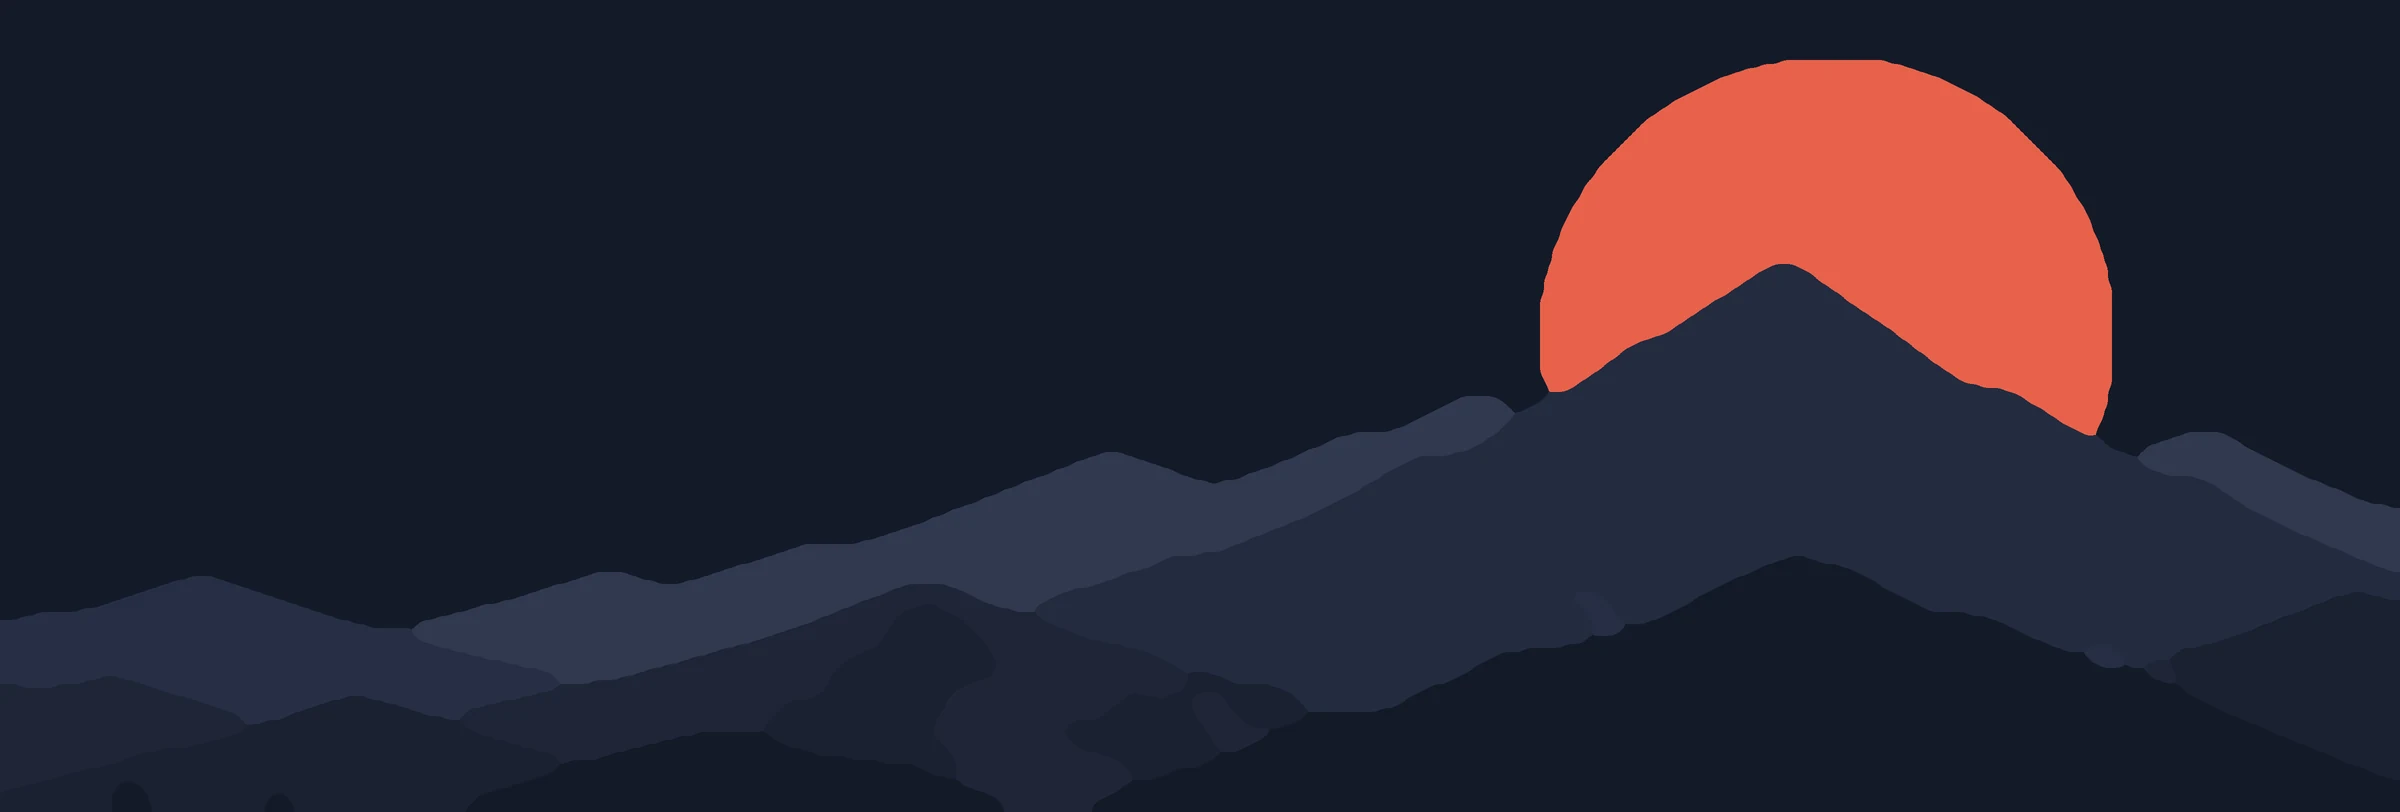
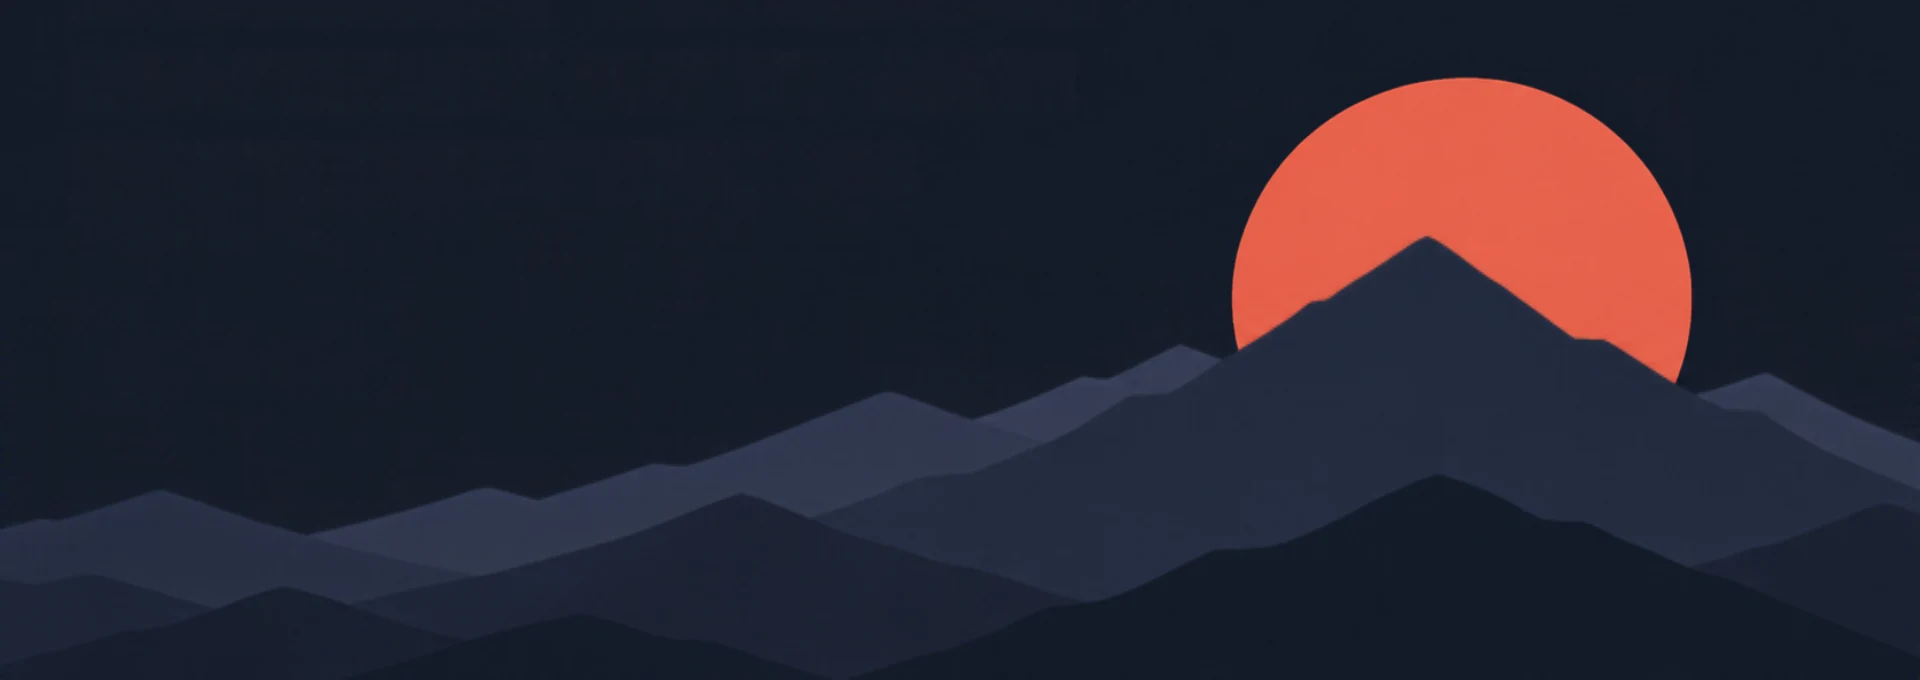
Portada: el dibuix bo de Canva en lloc del provisional
Exportat del disseny «CIMS portada web: només el dibuix (Nit al cim)» a 1920×1080 i retallat
a la franja de baix (1920×680). El cel de la portada passa a #151c29, el color del fons del
dibuix. En mòbil el dibuix és una mica més baix i, si el text no hi cap, la portada s'allarga
perquè el sol quedi sota els botons i no al darrere.

Claude-Session: https://claude.ai/code/session_018p7R4DbNLbmha2nCJ1FnzV

diff --git a/cims.css b/cims.css
@@ -234,7 +234,7 @@ html[data-marca="cims"] .banda ::selection { background: var(--c-band-accent); c
 
 /* Portada «Nit al cim» (dibuix de Canva: carenes i sol corall). Sempre fosca, sigui quin sigui el tema; el cel és el
    mateix color que el fons del dibuix (imatges/portada-nit.webp) perquè no es vegi on acaba. Va abans de la barra. */
-html[data-marca="cims"] { --pn-cel: #131a28; --pn-text: oklch(96% .008 80); --pn-suau: oklch(80% .014 265); --pn-corall: #e8624b }
+html[data-marca="cims"] { --pn-cel: #151c29; --pn-text: oklch(96% .008 80); --pn-suau: oklch(80% .014 265); --pn-corall: #e8624b }
 .portada-nit { --fosa: 240px; position: relative; overflow: hidden; display: grid; align-content: start;
   min-height: calc(100svh + var(--fosa)); padding-block: clamp(72px, 14svh, 160px) var(--fosa); background: var(--pn-cel); color: var(--pn-text); isolation: isolate }
 .portada-nit .pn-text { position: relative; z-index: 1; width: 100% }
@@ -259,7 +259,9 @@ html[data-marca="cims"] .portada-nit :focus-visible { outline-color: var(--pn-co
 }
 /* En vertical (mòbil), el text a dalt i el sol amb el cim a baix, retallats perquè el cim quedi al mig */
 @media (max-aspect-ratio: 4/5) {
-  .pn-dibuix { min-height: 0; height: 40svh; object-position: 90% 100% }
+  .pn-dibuix { min-height: 0; height: 33svh; object-position: 90% 100% }
+  /* Si el text no hi cap (mòbils baixos), la portada s'allarga i el sol queda sota els botons, mai al darrere */
+  .portada-nit { padding-bottom: calc(var(--fosa) + 33svh - 20px) }
   html[data-marca="cims"] .portada-nit .pn-sigles { font-size: 15px }
   .pn-sigles .pn-punt { display: none }
   .pn-sigles { display: grid; gap: 2px }

diff --git a/index.html b/index.html
@@ -29,7 +29,7 @@
       <a class="bt sec" href="#qui-som" data-formal="Qui som" data-divertit="Presenteu-vos!">Coneix-nos</a>
     </div>
   </div>
-  <img class="pn-dibuix" src="imatges/portada-nit.webp" width="2400" height="812" alt="" decoding="async" fetchpriority="high">
+  <img class="pn-dibuix" src="imatges/portada-nit.webp" width="1920" height="680" alt="" decoding="async" fetchpriority="high">
 </section>
 <header class="barra">
   <a class="marca" href="./" aria-label="CIMS, inici"><svg class="mk" viewBox="0 0 100 100" aria-hidden="true"><rect class="mk-bg" width="100" height="100" rx="22"/><path class="mk-c" d="M 74.51 29.43 A 32 32 0 1 0 74.51 70.57" fill="none" stroke-width="10" stroke-linecap="round"/><polygon class="mk-a" points="31.44,63.12 46.16,36.88 60.88,63.12" stroke-width="1.5" stroke-linejoin="round"/><polygon class="mk-f" points="44.88,63.12 57.04,42.64 68.56,63.12" stroke-width="2.5" stroke-linejoin="round"/></svg>CIMS</a>
